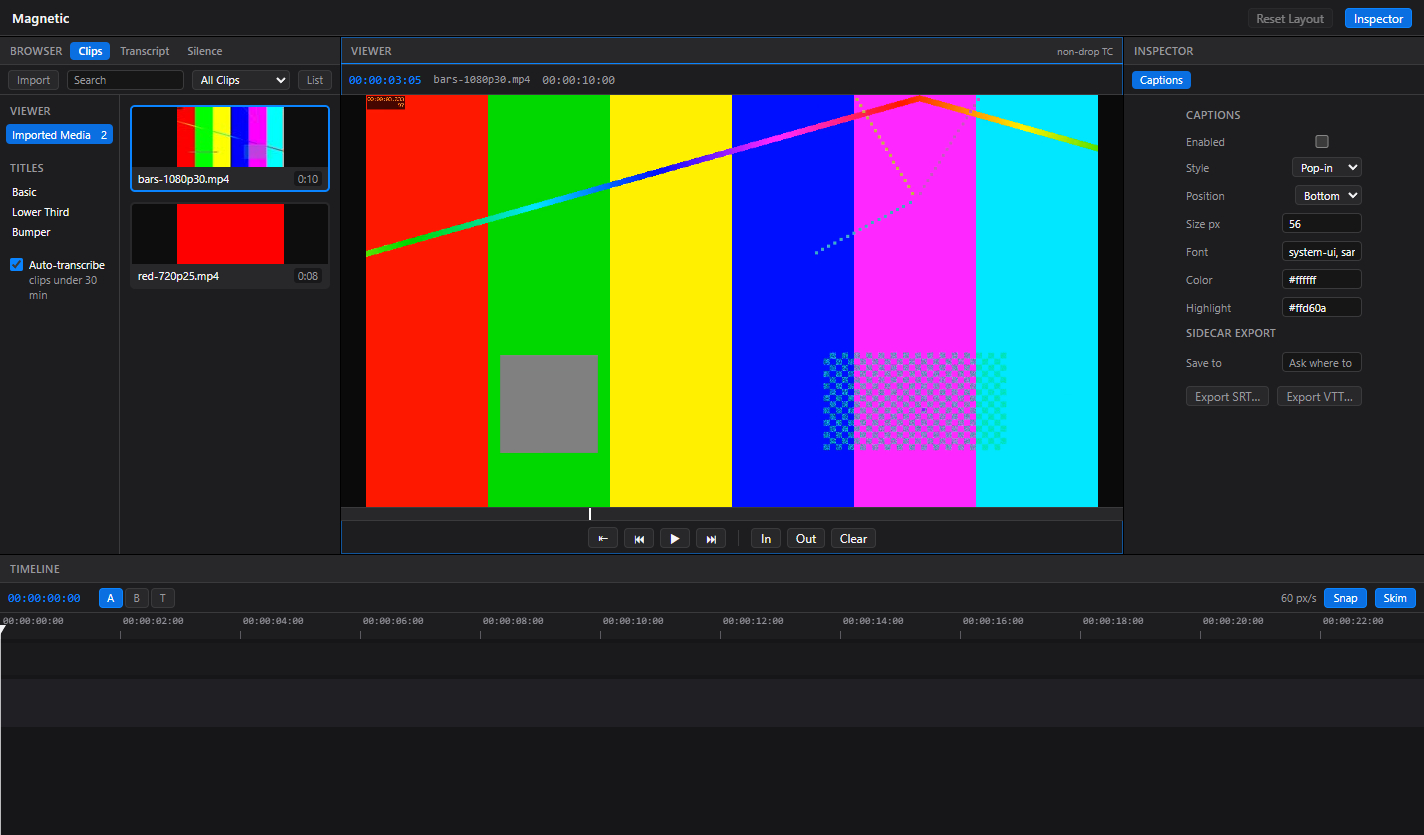
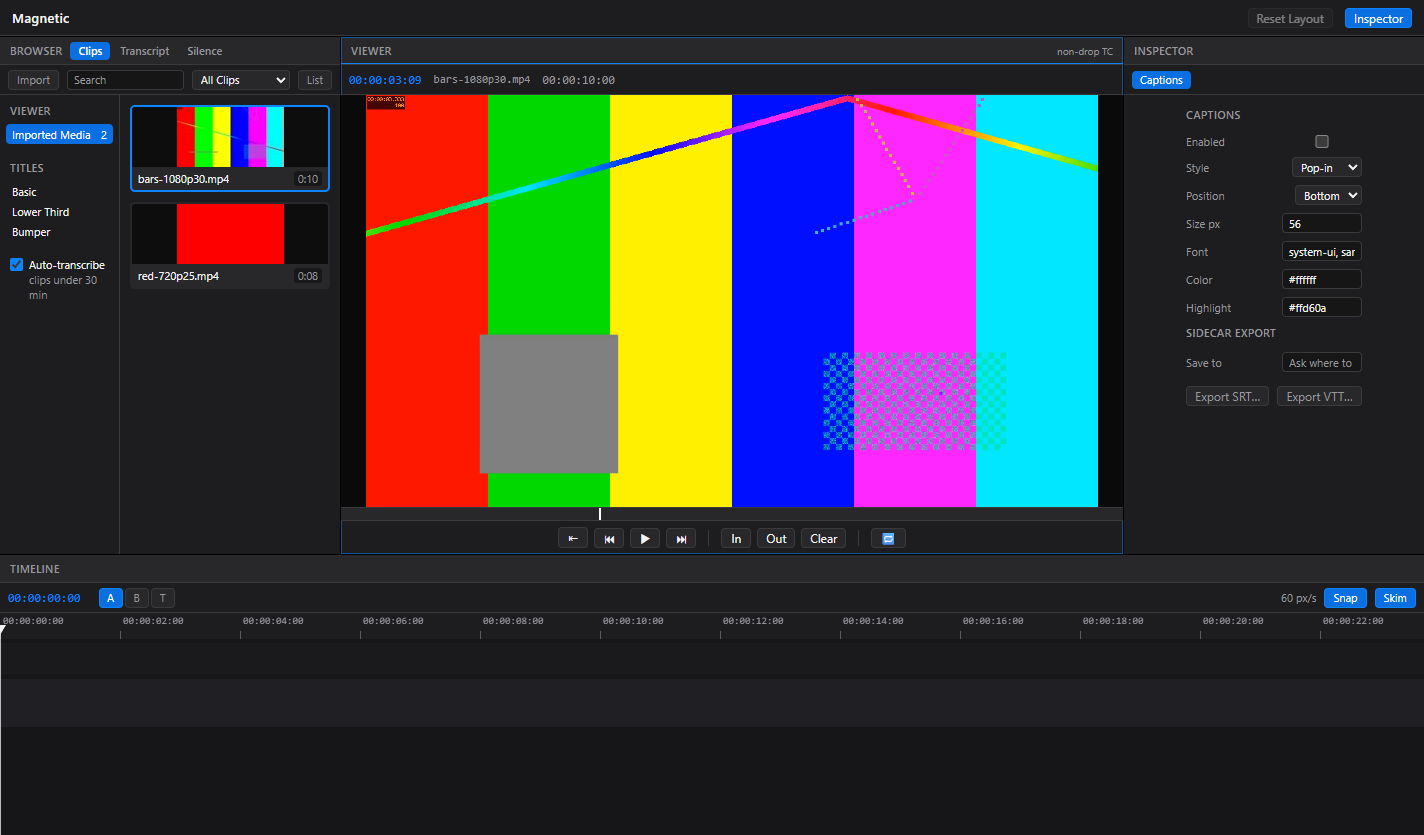
UX round 2 phase 3: play marked range (/) + E2E userData isolation
/ plays markIn->markOut in the source viewer and pauses within a frame
of the out point; with loop on the range wraps instead. rAF boundary
watch; <video>.loop stays disabled while a range is set.

Root-cause fix surfaced by this phase: E2E launches shared the real
Electron userData (localStorage), so the persisted loop pref leaked
across tests and runs. MAGNETIC_TEST launches now isolate userData
next to the per-test library path; relaunch-persistence specs stay
green (browser, loop).

diff --git a/src/renderer/viewer/ViewerPanel.tsx b/src/renderer/viewer/ViewerPanel.tsx
@@ -100,6 +100,19 @@ function ViewerContent({ asset }: { asset: AssetView }): ReactNode {
   const playStateRef = useRef<PlayState>('paused')
   const rateRef = useRef(1)
   const reverseRafRef = useRef<number | null>(null)
+  const markInRef = useRef<number | null>(null)
+  const markOutRef = useRef<number | null>(null)
+  const loopRef = useRef(loopPlayback)
+  /** True while a `/` range play is in flight (pause exactly at markOut). */
+  const rangePlayRef = useRef(false)
+
+  useEffect(() => {
+    markInRef.current = markIn
+    markOutRef.current = markOut
+  }, [markIn, markOut])
+  useEffect(() => {
+    loopRef.current = loopPlayback
+  }, [loopPlayback])
 
   // The placeholder section is replaced by this one when a clip opens, which
   // drops DOM focus — re-take it so JKL shortcuts work immediately.
@@ -138,6 +151,7 @@ function ViewerContent({ asset }: { asset: AssetView }): ReactNode {
 
   const pause = useCallback((): void => {
     stopReverse()
+    rangePlayRef.current = false
     videoRef.current?.pause()
     rateRef.current = 1
     setState('paused')
@@ -216,6 +230,37 @@ function ViewerContent({ asset }: { asset: AssetView }): ReactNode {
     return frameToFlicks(flicksToFrame(secondsToFlicks(video.currentTime), fps), fps)
     // eslint-disable-next-line react-hooks/exhaustive-deps -- fps stable per asset
   }, [])
+
+  // Marked-range boundary watch: while playing forward past markOut, a `/`
+  // range play pauses exactly at the out point; with loop on, any forward
+  // playback wraps back to markIn instead (the <video>.loop attribute is
+  // disabled while a range is set, so the native loop never fights this).
+  useEffect(() => {
+    let raf = 0
+    const step = (): void => {
+      const video = videoRef.current
+      const markInValue = markInRef.current
+      const markOutValue = markOutRef.current
+      if (
+        video !== null &&
+        markInValue !== null &&
+        markOutValue !== null &&
+        markOutValue > markInValue &&
+        playStateRef.current === 'forward' &&
+        secondsToFlicks(video.currentTime) >= markOutValue
+      ) {
+        if (loopRef.current) {
+          seekToFlicks(markInValue)
+        } else if (rangePlayRef.current) {
+          pause()
+          seekToFlicks(markOutValue)
+        }
+      }
+      raf = requestAnimationFrame(step)
+    }
+    raf = requestAnimationFrame(step)
+    return () => cancelAnimationFrame(raf)
+  }, [pause, seekToFlicks])
 
   // Autoplay (placeholder ▶ or Space with a browser selection): start as
   // soon as the media can play.
@@ -336,6 +381,19 @@ function ViewerContent({ asset }: { asset: AssetView }): ReactNode {
         description: 'Mark out point',
         when: focused,
         handler: () => setMarkOut(currentFrameFlicks())
+      }),
+      registerShortcut('viewer-play-range', {
+        combo: '/',
+        description: 'Play the marked range (in to out)',
+        when: focused,
+        handler: () => {
+          const markInValue = markInRef.current
+          const markOutValue = markOutRef.current
+          if (markInValue === null || markOutValue === null || markOutValue <= markInValue) return
+          seekToFlicks(markInValue)
+          playForward(1)
+          rangePlayRef.current = true
+        }
       }),
       registerShortcut('viewer-clear-marks', {
         combo: 'x',

diff --git a/e2e/ux-controls.spec.ts b/e2e/ux-controls.spec.ts
@@ -319,6 +319,78 @@ test('timecode entry: click-to-type seeks, Escape cancels, garbage rejects visib
   await app.close()
 })
 
+test('play marked range: / plays in->out and pauses at out; loop wraps the range', async () => {
+  test.setTimeout(240_000)
+  const tempRoot = mkdtempSync(join(tmpdir(), 'magnetic-ux-range-'))
+  const app = await launchApp(join(tempRoot, 'UxRange.mglib'))
+  const page = await app.firstWindow()
+  await importFixtures(page, ['bars-1080p30.mp4']) // 10 s @ 30 fps
+
+  // open in the source viewer; / with no marks is a no-op
+  await page.getByTestId('asset-cell-bars-1080p30.mp4').dblclick()
+  await expect(page.getByTestId('viewer-video')).toBeVisible()
+  await page.keyboard.press('/')
+  await page.waitForTimeout(300)
+  expect(
+    await page.getByTestId('viewer-video').evaluate((el) => (el as HTMLVideoElement).paused)
+  ).toBe(true)
+
+  // mark 2 s -> 4 s via typed timecode + i/o
+  const input = page.getByTestId('timecode-input')
+  await page.getByTestId('viewer-timecode').click()
+  await input.fill('00:00:02:00')
+  await input.press('Enter')
+  await page.getByTestId('panel-viewer').click() // focus back from the input
+  await page.keyboard.press('i')
+  await page.getByTestId('viewer-timecode').click()
+  await input.fill('00:00:04:00')
+  await input.press('Enter')
+  await page.getByTestId('panel-viewer').click()
+  await page.keyboard.press('o')
+  await expect(page.getByTestId('viewer-io-range')).toBeVisible()
+
+  // the shortcut is discoverable in the overlay
+  await page.keyboard.press('Shift+?')
+  await expect(page.getByText('Play the marked range (in to out)')).toBeVisible()
+  await page.keyboard.press('Shift+?')
+
+  // / plays from in and pauses within a frame of out
+  await page.keyboard.press('/')
+  await expect
+    .poll(
+      () => page.getByTestId('viewer-video').evaluate((el) => (el as HTMLVideoElement).paused),
+      { timeout: 15_000 }
+    )
+    .toBe(true)
+  const parkedAt = await page
+    .getByTestId('viewer-video')
+    .evaluate((el) => (el as HTMLVideoElement).currentTime)
+  expect(Math.abs(parkedAt - 4)).toBeLessThanOrEqual(1 / 30 + 0.02)
+
+  // with loop on, / wraps out -> in and keeps playing
+  await page.keyboard.press('Control+l')
+  await page.keyboard.press('/')
+  let highWater = 0
+  await expect
+    .poll(
+      async () => {
+        const t = await page
+          .getByTestId('viewer-video')
+          .evaluate((el) => (el as HTMLVideoElement).currentTime)
+        const wrapped = t < highWater - 0.5
+        highWater = Math.max(highWater, t)
+        return wrapped
+      },
+      { timeout: 20_000 }
+    )
+    .toBe(true)
+  expect(
+    await page.getByTestId('viewer-video').evaluate((el) => (el as HTMLVideoElement).paused)
+  ).toBe(false)
+
+  await app.close()
+})
+
 test('layout: splitter drag resizes the browser, Reset Layout restores defaults, Shift+Z fits', async () => {
   test.setTimeout(240_000)
   const tempRoot = mkdtempSync(join(tmpdir(), 'magnetic-ux-layout-'))

diff --git a/src/main/index.ts b/src/main/index.ts
@@ -23,6 +23,12 @@ import {
 } from './app-state'
 import { getAutoTranscribe, setAutoTranscribe } from './project-io/library'
 
+// E2E launches must not share localStorage/caches with each other or with the
+// real profile — isolate userData next to the per-test library directory.
+if (process.env.MAGNETIC_TEST === '1' && process.env.MAGNETIC_LIBRARY_PATH !== undefined) {
+  app.setPath('userData', process.env.MAGNETIC_LIBRARY_PATH + '-userData')
+}
+
 registerMfileScheme()
 
 function createWindow(): void {

diff --git a/.supergoal/STATE.md b/.supergoal/STATE.md
@@ -1,13 +1,13 @@
 # STATE — UX round 2 run
 
 **Status:** IN_PROGRESS
-**Current phase:** 2
+**Current phase:** 3
 **Baseline ref:** 422994f82ae70027e31b203c5580525ae0332b7a
 **Total phases:** 7
 
 ## Phases
 - [x] 1 — Loop playback toggle (DONE: gates green, E2E 5/5, committed)
-- [ ] 2 — Timecode click-to-type seeking
+- [x] 2 — Timecode click-to-type seeking (DONE: 364 unit, E2E 5/5, committed)
 - [ ] 3 — Play marked range (/)
 - [ ] 4 — Audio meter
 - [ ] 5 — Viewer fullscreen
